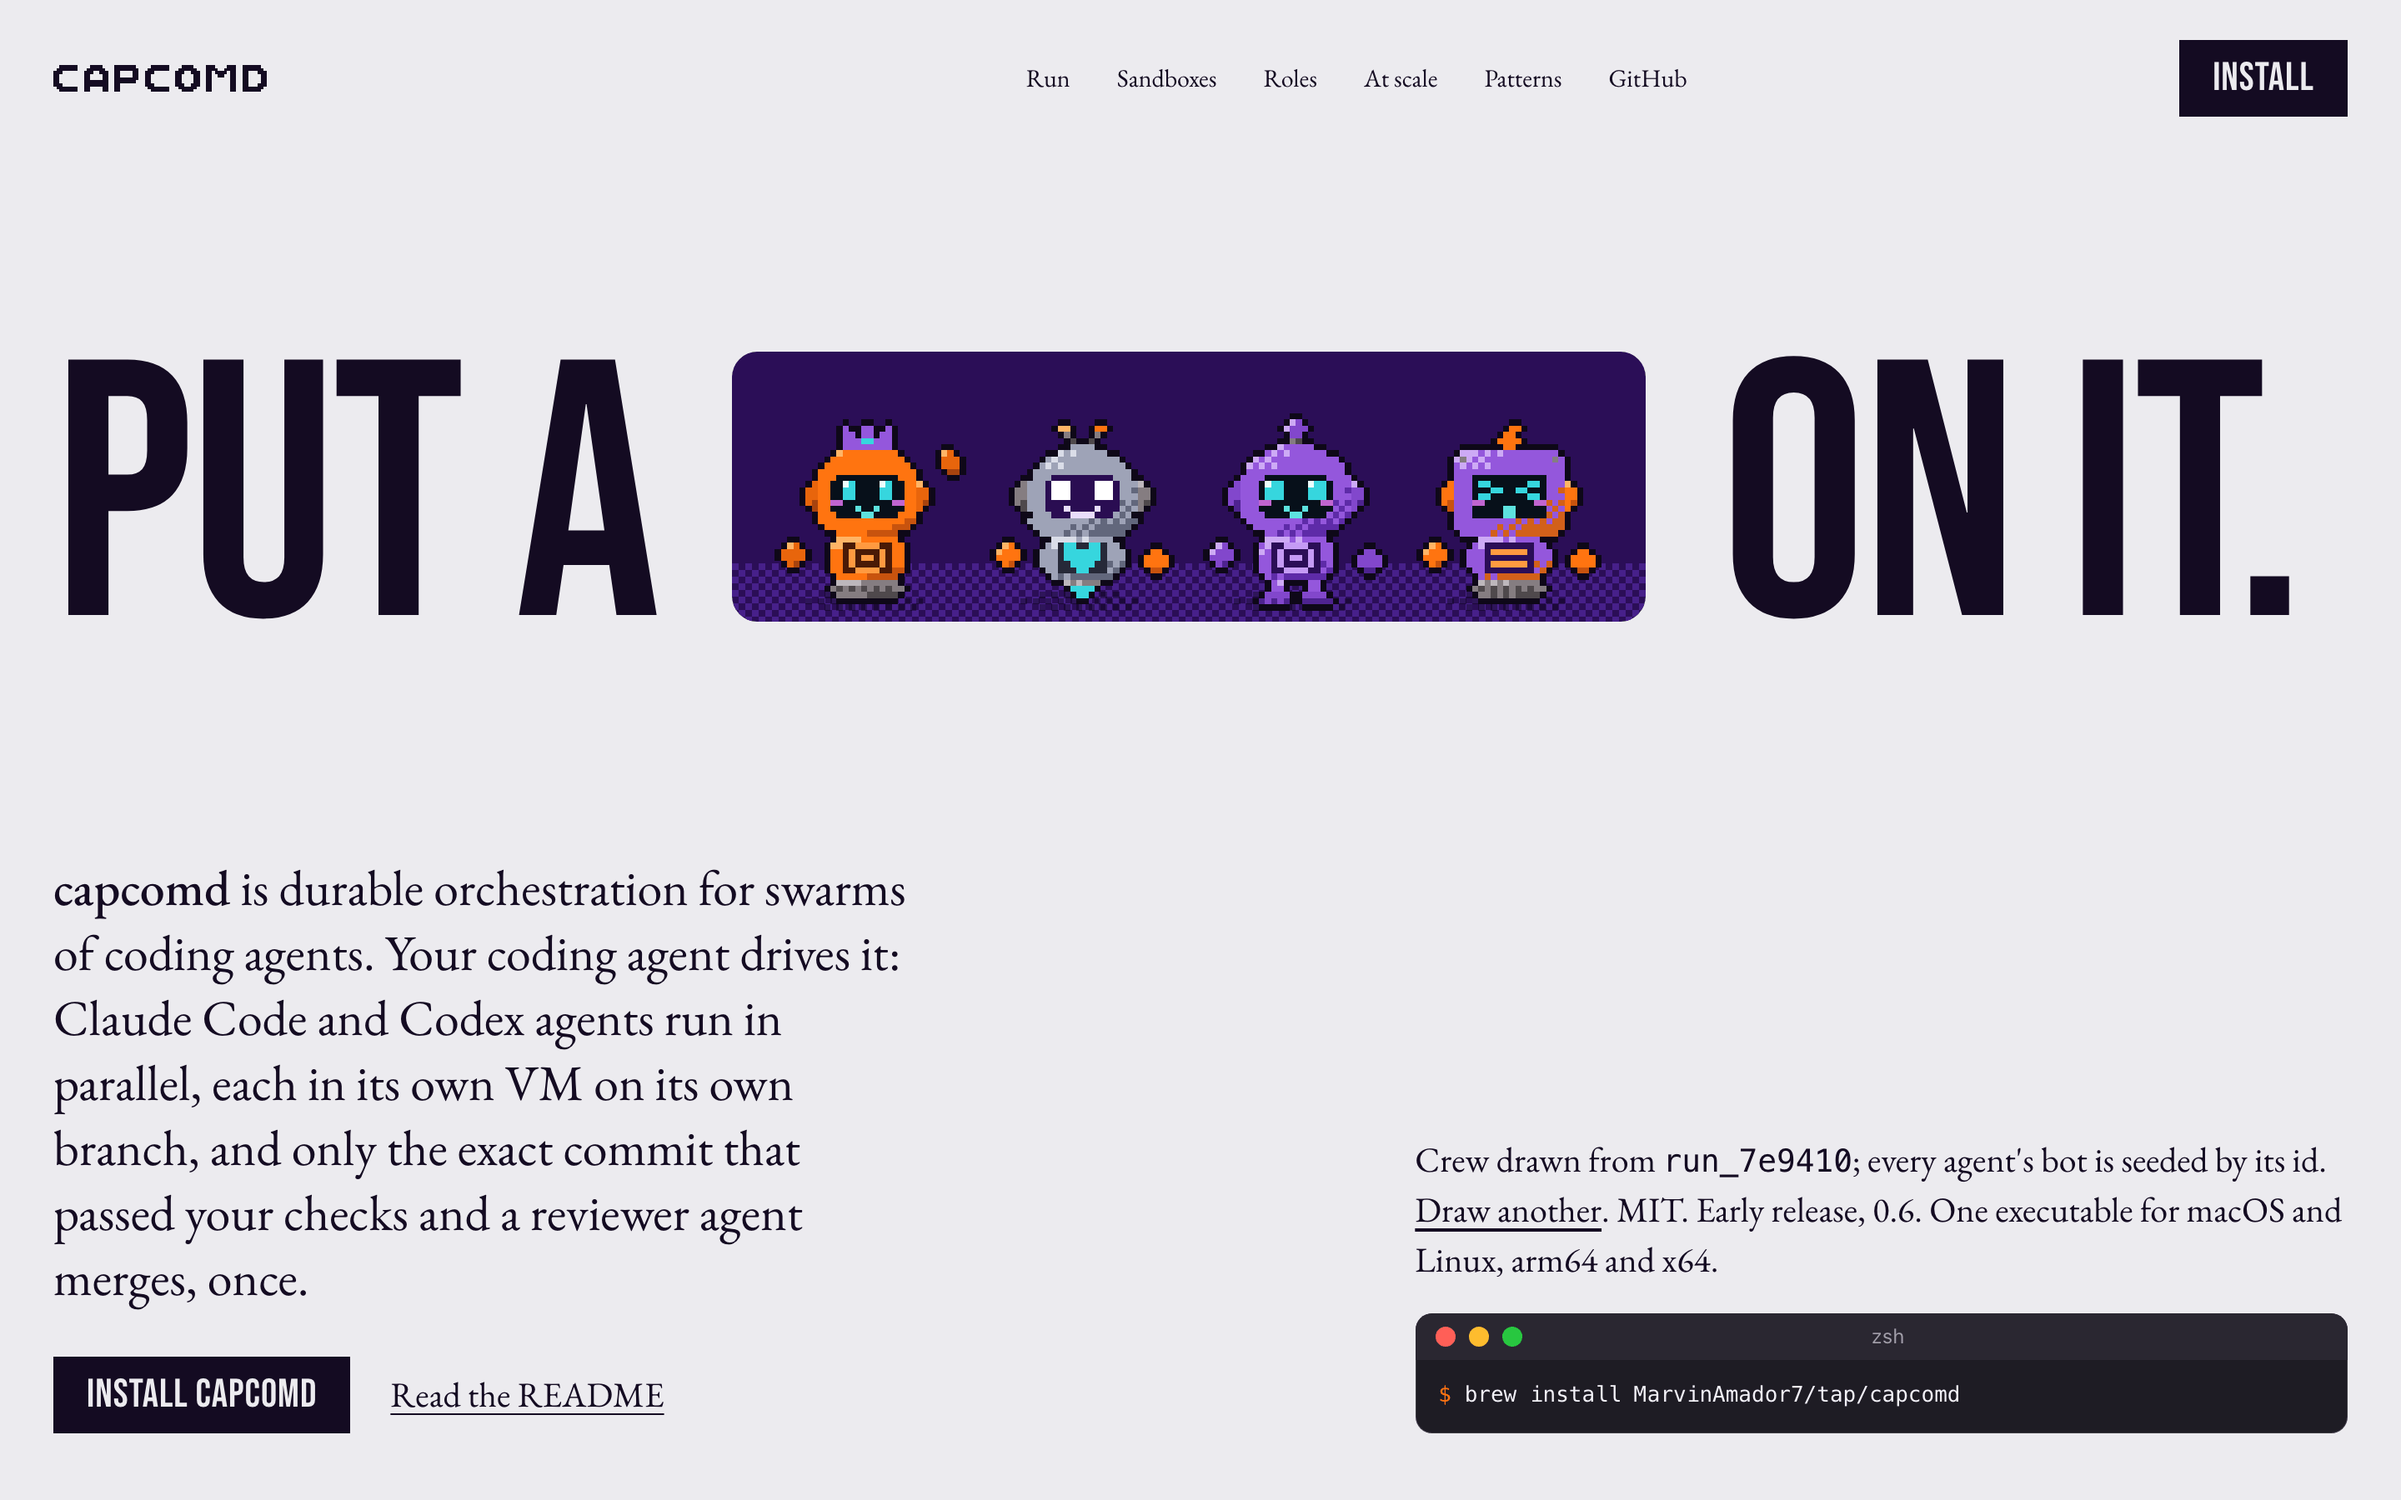
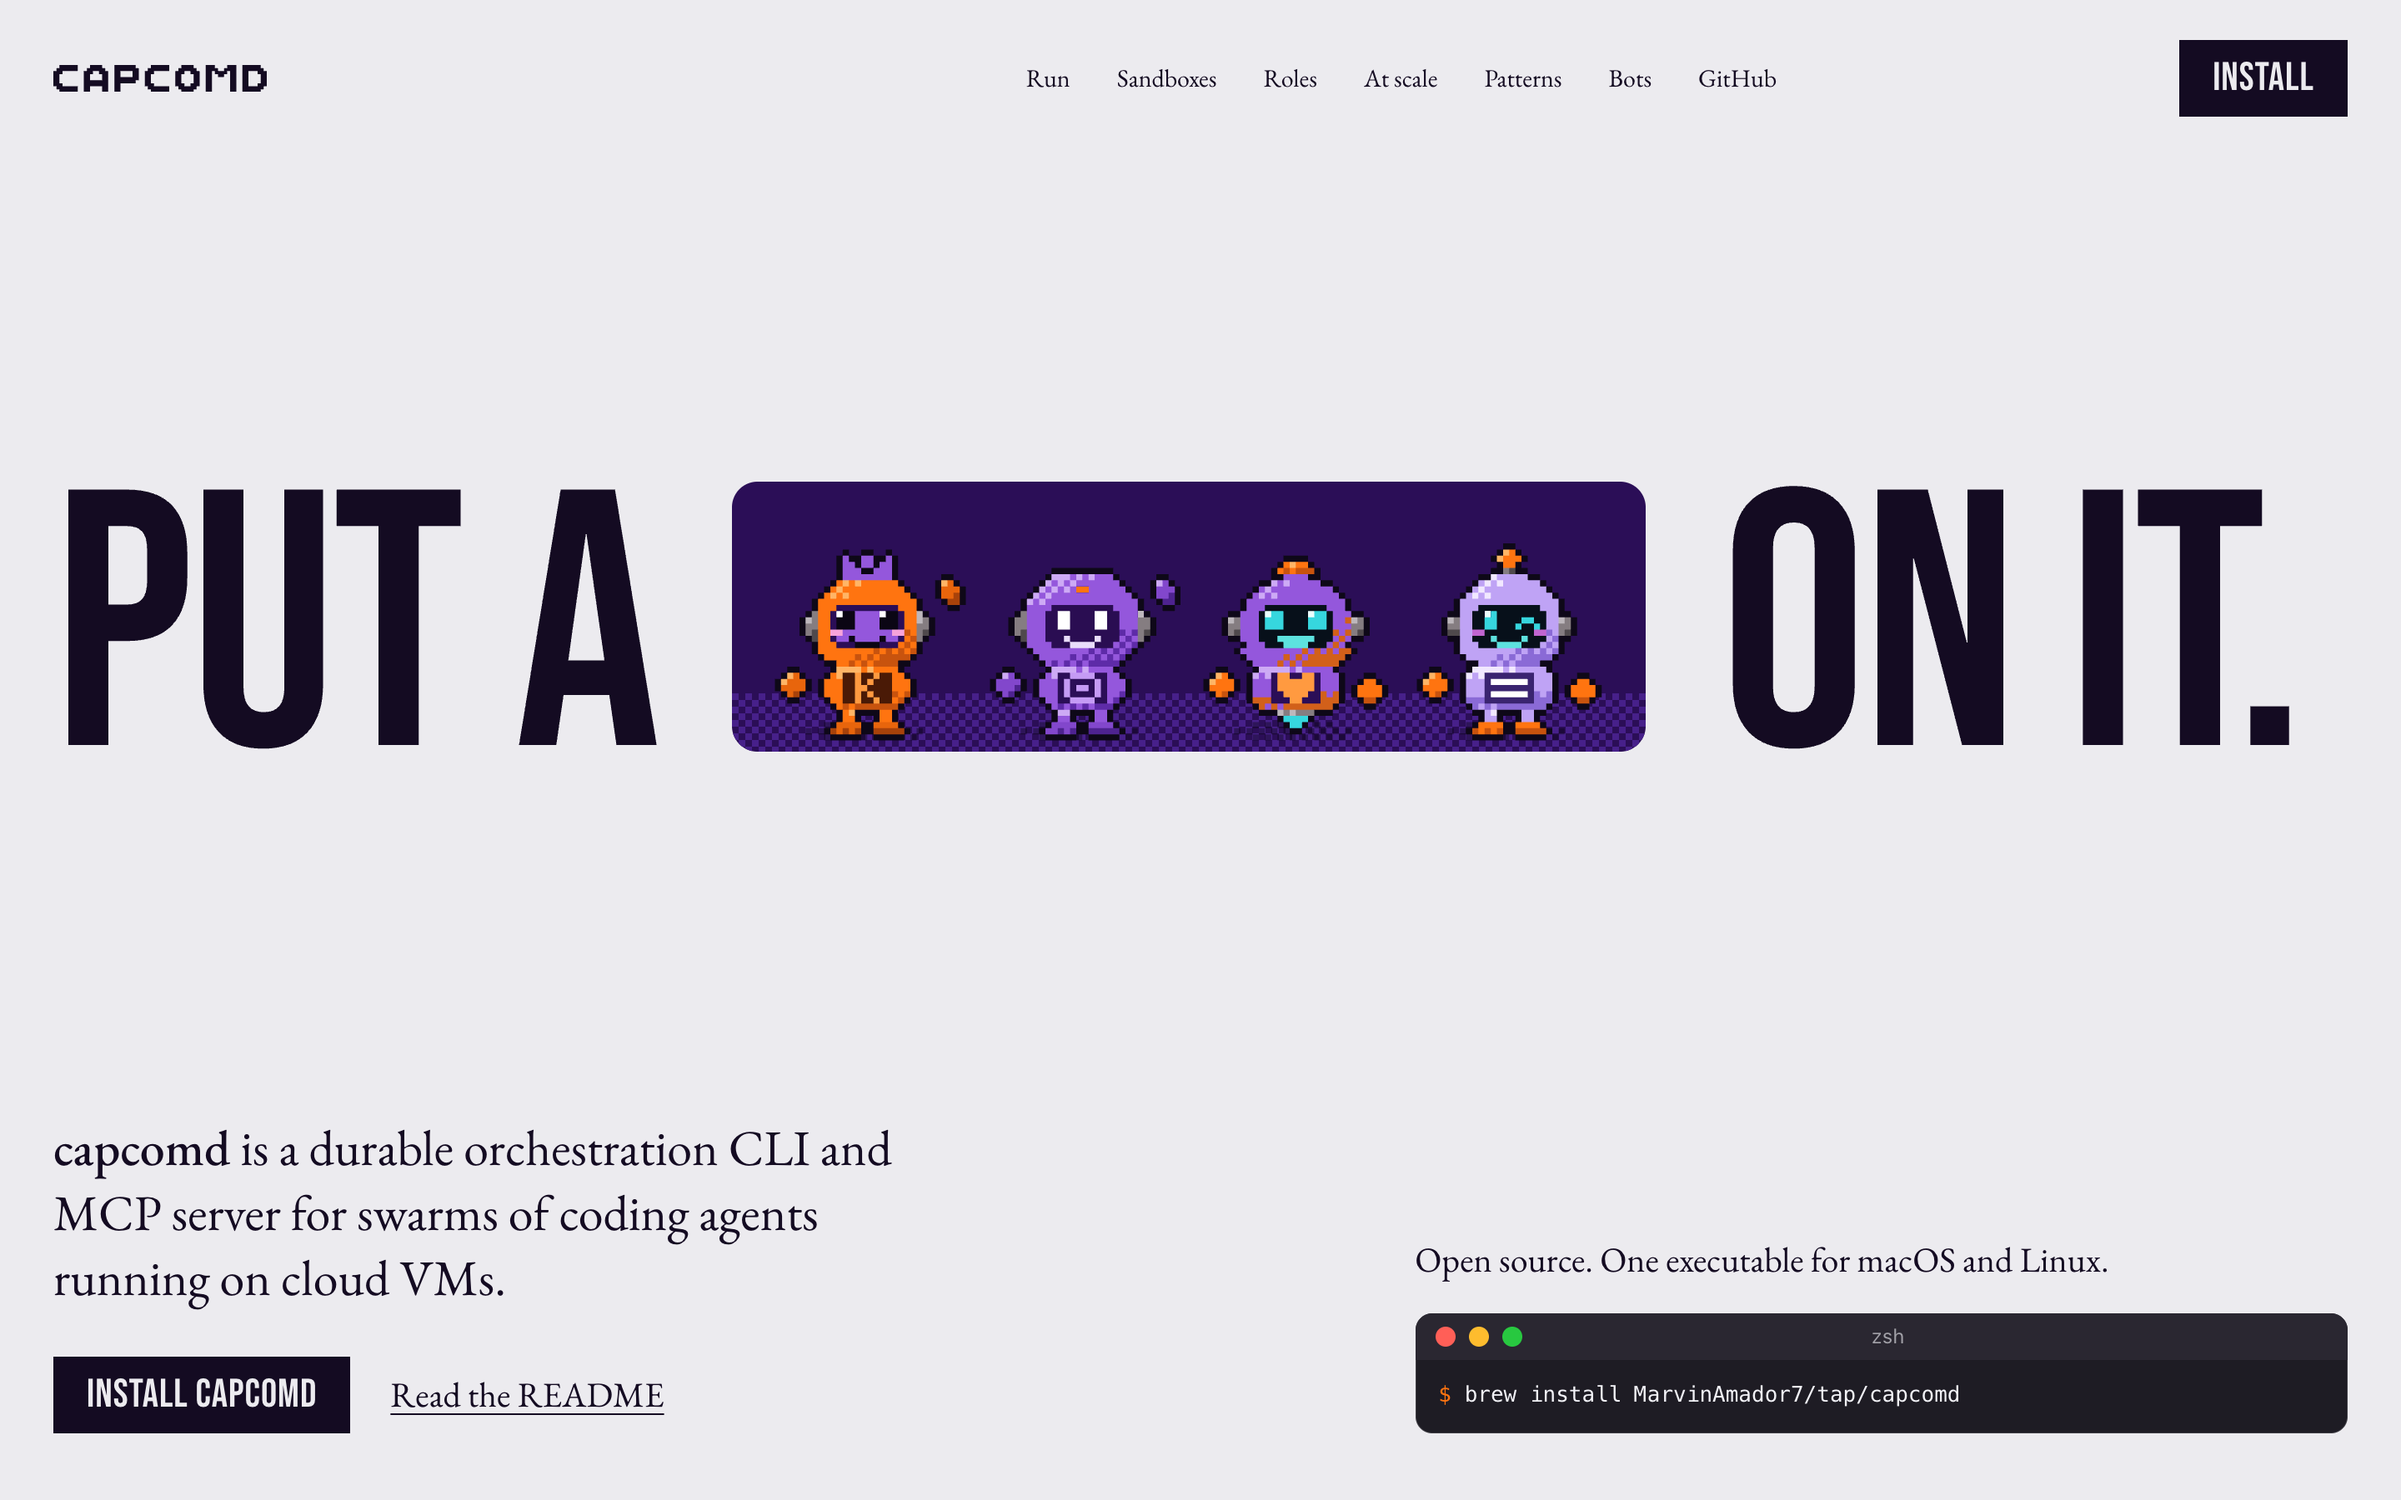
site: the hero lead says what capcomd is in one line
"capcomd is a durable orchestration CLI and MCP server for swarms of coding
agents running on cloud VMs."

diff --git a/site/components/Hero.tsx b/site/components/Hero.tsx
@@ -17,7 +17,7 @@ export function Hero() {
 
       <div className="hero__foot">
         <p className="hero__lead" data-load style={delay(420)}>
-          <b>capcomd</b> is durable orchestration for swarms of coding agents. Your coding agent drives it: Claude Code and Codex agents run in parallel, each in its own VM on its own branch, and only the exact commit that passed your checks and a reviewer agent merges, once.
+          <b>capcomd</b> is a durable orchestration CLI and MCP server for swarms of coding agents running on cloud VMs.
         </p>
         <div className="hero__do" data-load style={delay(500)} id="install">
           <a className="button" href={`${SITE.repo}#quickstart`}>Install capcomd</a>
